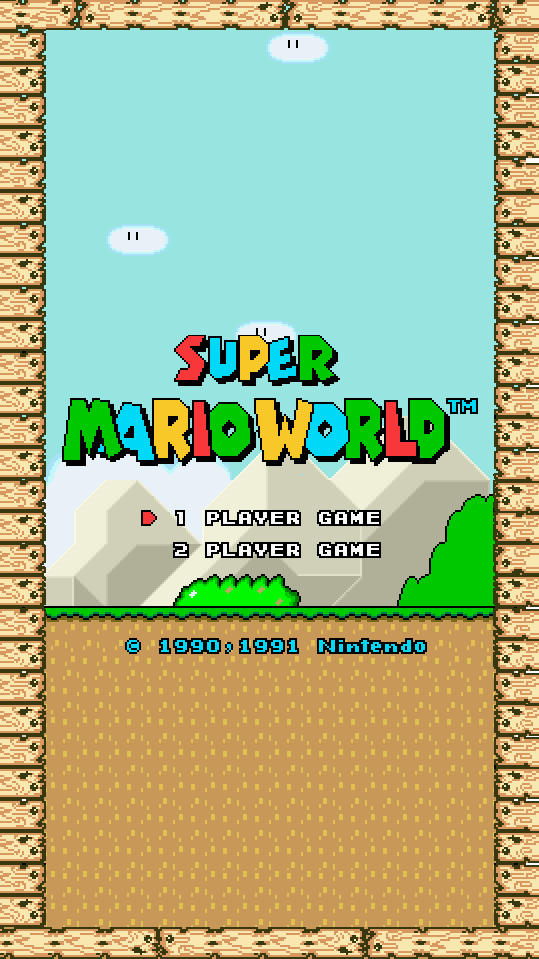
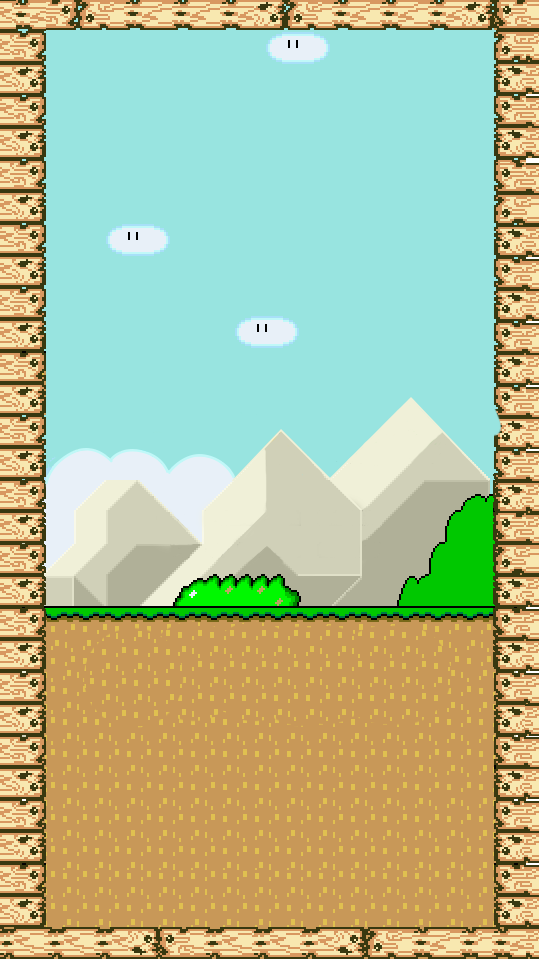
edited main page bgimage and added text image

diff --git a/src/App.js b/src/App.js
@@ -1,6 +1,10 @@
 import React from 'react';
-import logo from './logo.svg';
-import './App.css';
+// import logo from './logo.svg';
+import menutext1 from './assets/main-menu-text-1.svg';
+import menutext2 from './assets/main-menu-text-2.svg';
+import maintitle from './assets/inhye-world-text.svg';
+import companytitle from './assets/2019inhyechoi.png';
+import './App.scss';
 import './mixin.scss';
 import './variables.scss';
 
@@ -9,9 +13,9 @@ function App() {
     <div className="App">
       <header className="App-header">
         {/* <img src={logo} className="App-logo" alt="logo" /> */}
-        <p>
-          1 Player Game: Inhye Choi
-        </p>
+            <img src={maintitle} className="main-title" alt="" />
+            <img src={menutext1} className="menu-text-1" alt="" />
+            <img src={menutext2} className="menu-text-2" alt="" />
         {/* <a
           className="App-link"
           href="https://reactjs.org"
@@ -20,7 +24,9 @@ function App() {
         >
           Learn React
         </a> */}
+        <img src={companytitle} className="company-title" alt="" />
       </header>
+
     </div>
   );
 }

diff --git a/src/App.scss b/src/App.scss
@@ -4,12 +4,22 @@
 }
 @media (min-width: 600px) {
     .App {
-        background-image: url("./assets/main-bg-dk.jpg");
+        background-image: url("./assets/main-bg-dk.png");
         background-size: 100% 100%;
     }     
 }
 .App-logo {
   height: 40vmin;
+}
+
+.menu-text-1{
+    height: 100%;
+}
+.menu-text-2{
+    height: 100%;
+}
+.company-title{
+    height: 100%;
 }
 
 .App-header {
